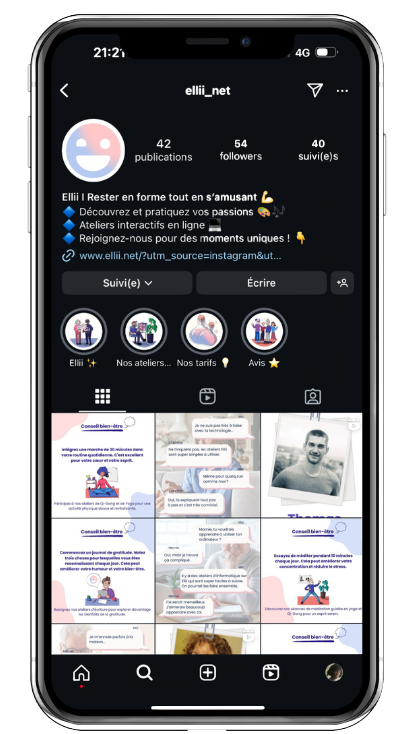
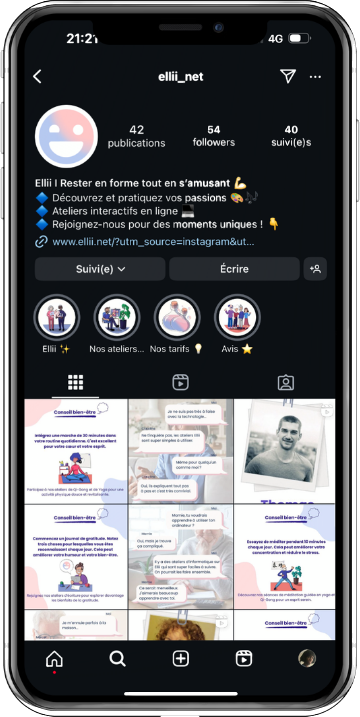
Corrige le débordement du fond blanc et rééquilibre flyer/affiche
L'image du mockup avait une marge transparente asymétrique autour du téléphone, faisant dépasser le fond blanc. Recadrage sur le contenu réel. Le flyer est maintenant aussi grand que le mockup (même hauteur), l'affiche est réduite ; ajustements fins pour rester sur une seule ligne jusqu'à 768px.

Claude-Session: https://claude.ai/code/session_015i6qxpSAzXgsRnJ1y6AUN4

diff --git a/marketing.html b/marketing.html
@@ -207,9 +207,17 @@ background: rgba(0, 0, 0, 0.2);
 }
 .project-block.theme-ellii .project-single img {
 width: auto;
-height: clamp(200px, 25vw, 280px);
 aspect-ratio: auto;
 object-fit: contain;
+}
+.project-block.theme-ellii .project-single.flyer img {
+height: clamp(339px, 41.8vw, 428px);
+}
+.project-block.theme-ellii .project-single.affiche img {
+height: clamp(100px, 15vw, 175px);
+}
+.project-block.theme-ellii .project-media {
+gap: 16px;
 }
 .project-block.theme-3 {
 background: linear-gradient(135deg, #7c2d12, #ea580c 55%, #fbbf24);
@@ -331,10 +339,10 @@ height: 24px;
 <div class="project-phone">
 <img src="assets/projects/ellii/phone-mockup.png" alt="Mockup du profil Instagram Ellii">
 </div>
-<div class="project-single">
+<div class="project-single flyer">
 <img src="assets/projects/ellii/flyer.png" alt="Flyer de présentation de la plateforme - Ellii">
 </div>
-<div class="project-single">
+<div class="project-single affiche">
 <img src="assets/projects/ellii/affiche.png" alt="Affiche conseil bien-être - Ellii">
 </div>
 </div>
